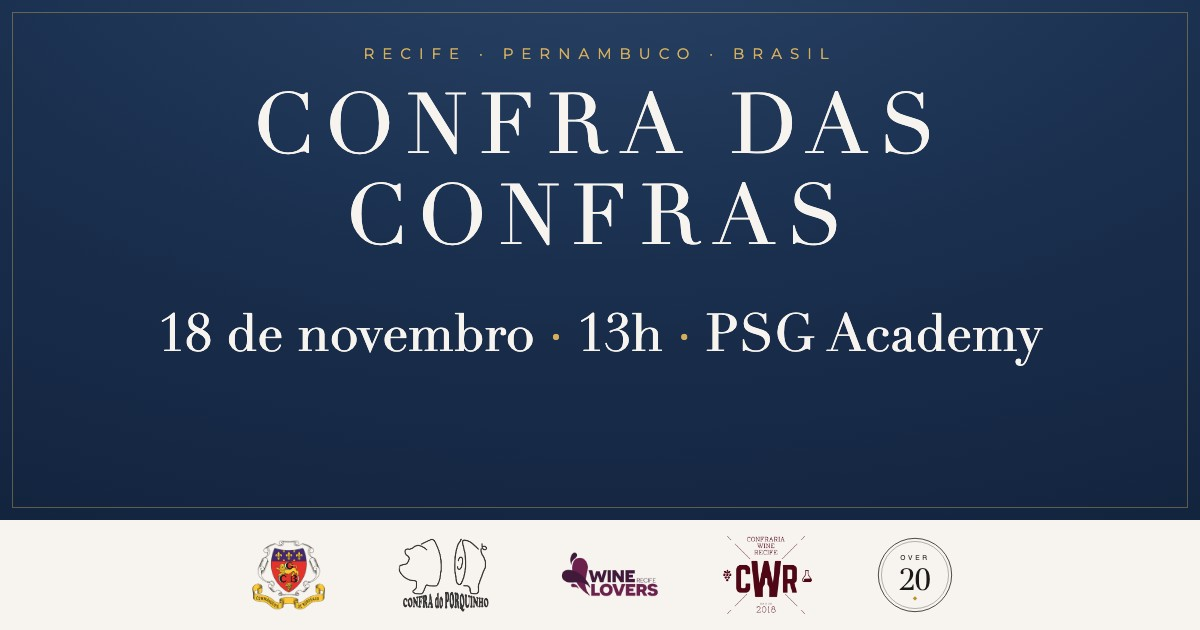
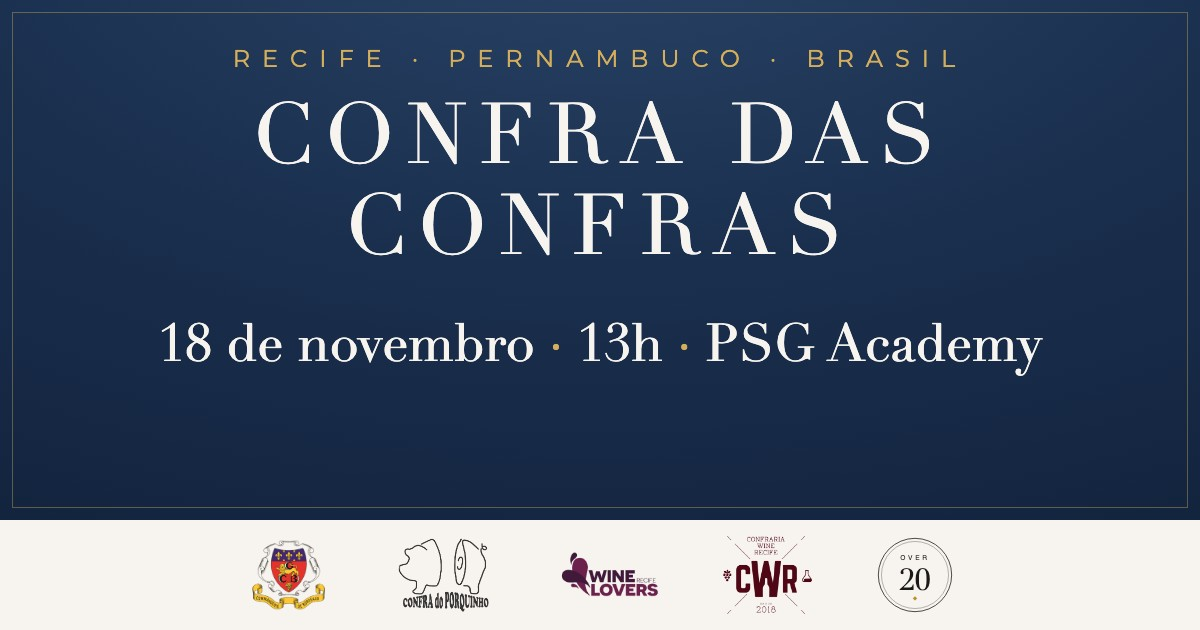
Confras: OG com Recife·Pernambuco·Brasil maior

diff --git a/confras/og-source.html b/confras/og-source.html
@@ -8,7 +8,7 @@
 body{width:1200px;height:630px;overflow:hidden;font-family:'Montserrat',sans-serif}
 .hero{width:1200px;height:520px;background:radial-gradient(130% 160% at 50% -20%,#2A4468 0%,#1A2F4E 45%,#101F38 100%);color:#F7F3EE;text-align:center;position:relative;padding-top:44px}
 .hero::after{content:'';position:absolute;inset:12px;border:1px solid rgba(212,174,92,.4)}
-.k{font-size:15px;letter-spacing:8px;color:#D4AE5C}
+.k{font-size:24px;letter-spacing:12px;color:#D4AE5C}
 h1{font-family:Didot,'Bodoni 72','Playfair Display',Georgia,serif;font-weight:400;font-size:84px;letter-spacing:12px;line-height:1.08;margin-top:18px}
 h1 .a{display:block;font-size:30px;letter-spacing:16px;color:#D4AE5C;margin-bottom:6px}
 .when{font-family:Didot,'Playfair Display',serif;font-size:52px;margin-top:40px;color:#F7F3EE}
